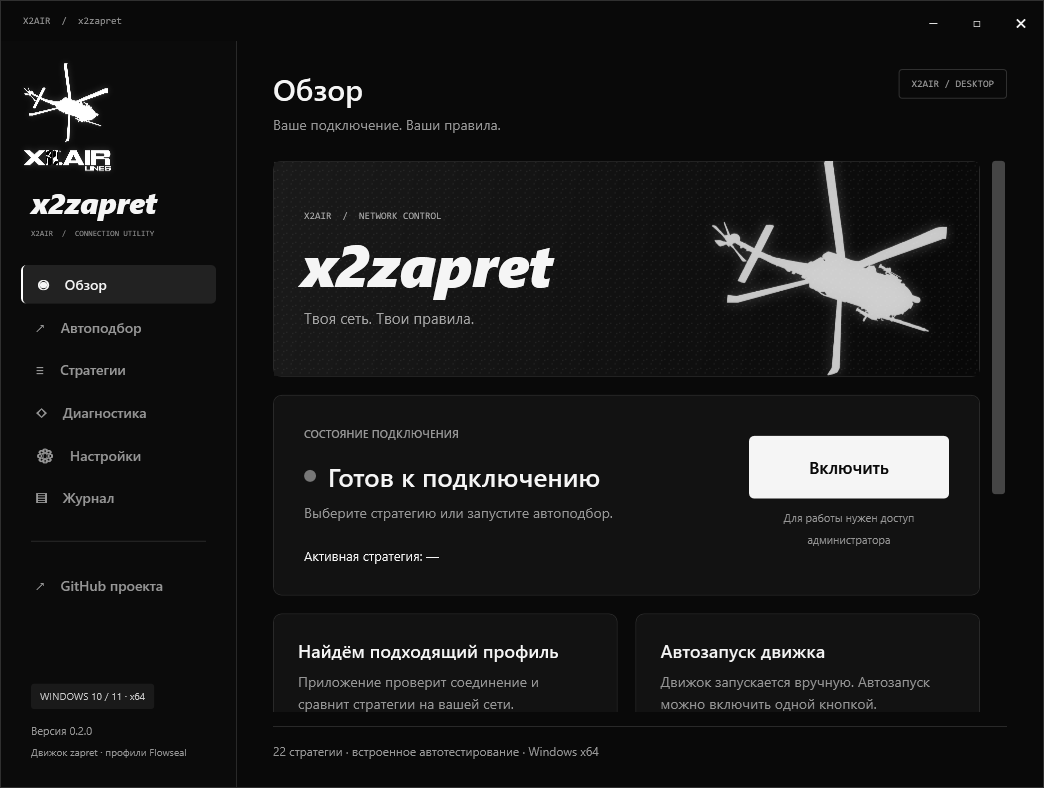
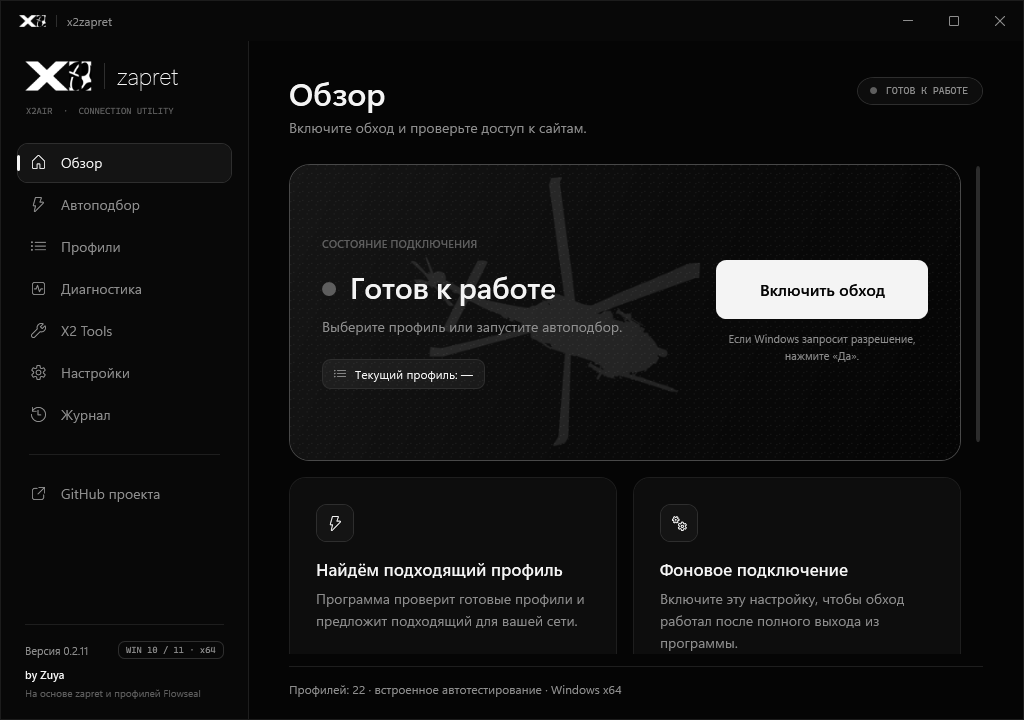
Fix doubled text field padding; refresh screenshots for the new design
Claude-Session: https://claude.ai/code/session_014UdHpzwPVRCFCZo3des9ho

diff --git a/src/Zapret.Desktop/App.xaml b/src/Zapret.Desktop/App.xaml
@@ -154,7 +154,7 @@
       <Setter Property="Template"><Setter.Value>
         <ControlTemplate TargetType="TextBox">
           <Border x:Name="Field" Background="{TemplateBinding Background}" BorderBrush="{TemplateBinding BorderBrush}" BorderThickness="{TemplateBinding BorderThickness}" CornerRadius="10" SnapsToDevicePixels="True">
-            <ScrollViewer x:Name="PART_ContentHost" Margin="{TemplateBinding Padding}" VerticalAlignment="{TemplateBinding VerticalContentAlignment}" Focusable="False" HorizontalScrollBarVisibility="Hidden" />
+            <ScrollViewer x:Name="PART_ContentHost" VerticalAlignment="{TemplateBinding VerticalContentAlignment}" Focusable="False" HorizontalScrollBarVisibility="Hidden" />
           </Border>
           <ControlTemplate.Triggers>
             <Trigger Property="IsMouseOver" Value="True"><Setter TargetName="Field" Property="BorderBrush" Value="#3C3C3C" /></Trigger>
